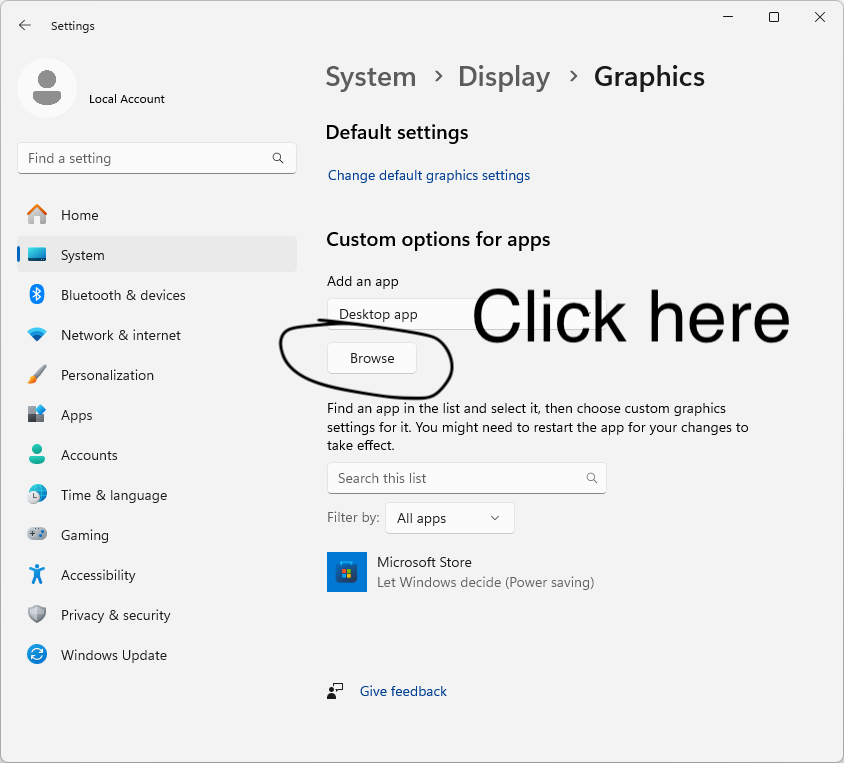
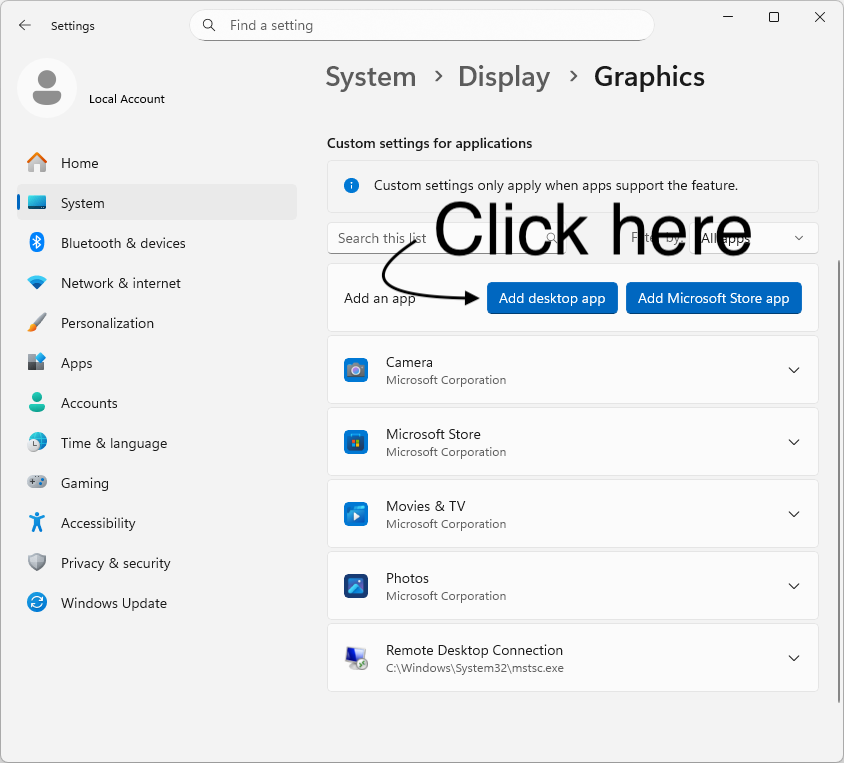
vocal remover gpu performance guide: screenshots from updated system

diff --git a/vocal-remover/set-high-performance-gpu-for-chrome-edge-on-windows/index.html b/vocal-remover/set-high-performance-gpu-for-chrome-edge-on-windows/index.html
@@ -55,7 +55,7 @@
                   In the list, look for <span class="font-medium">Google Chrome</span> (you may need to scroll). If you see it, go to <a href="#step3-chrome" class="underline">Step 3</a>.
                 </p>
 
-                <img class="mt-4 rounded-md" src="graphics-settings-1.png" alt="Settings → System → Display → Graphics screen with app list highlighted" />
+                <img class="mt-4 rounded-md" src="graphics-settings.png" alt="Settings → System → Display → Graphics screen" />
               </div>
             </div>
           </section>
@@ -72,8 +72,7 @@
                     If you don’t see Chrome there:
                   </p>
                   <ol class="list-decimal pl-5 text-slate-600 space-y-2">
-                    <li>Under <span class="font-medium">Add an app</span>, open the drop‑down and make sure <span class="font-medium">Desktop app</span> is selected.</li>
-                    <li>Click <span class="font-medium">Browse</span>.</li>
+                    <li>Click <span class="font-medium">Add desktop app</span>.</li>
                     <li>At the bottom, in the <span class="font-medium">File name</span> box, <span class="font-medium">paste one of the lines</span> below.</li>
                     <li>Press <span class="font-medium">Enter</span> or click <span class="font-medium">Add</span>.<p>
                   </ol>
@@ -157,7 +156,7 @@
                   In the list, look for <span class="font-medium">Microsoft Edge</span> (you may need to scroll). If you see it, go to <a href="#step3-edge" class="underline">Step 3</a>.
                 </p>
 
-                <img class="mt-4 rounded-md" src="graphics-settings-1.png" alt="Settings → System → Display → Graphics screen with app list highlighted" />
+                <img class="mt-4 rounded-md" src="graphics-settings.png" alt="Settings → System → Display → Graphics screen" />
               </div>
             </div>
           </section>
@@ -175,8 +174,7 @@
                     If you don’t see Edge there:
                   </p>
                   <ol class="list-decimal pl-5 text-slate-600 space-y-2">
-                    <li>Under <span class="font-medium">Add an app</span>, open the drop‑down and make sure <span class="font-medium">Desktop app</span> is selected.</li>
-                    <li>Click <span class="font-medium">Browse</span>.</li>
+                    <li>Click <span class="font-medium">Add desktop app</span>.</li>
                     <li>At the bottom, in the <span class="font-medium">File name</span> box, <span class="font-medium">paste one of the lines</span> below.</li>
                     <li>Press <span class="font-medium">Enter</span> or click <span class="font-medium">Add</span>.<p>
                   </ol>
